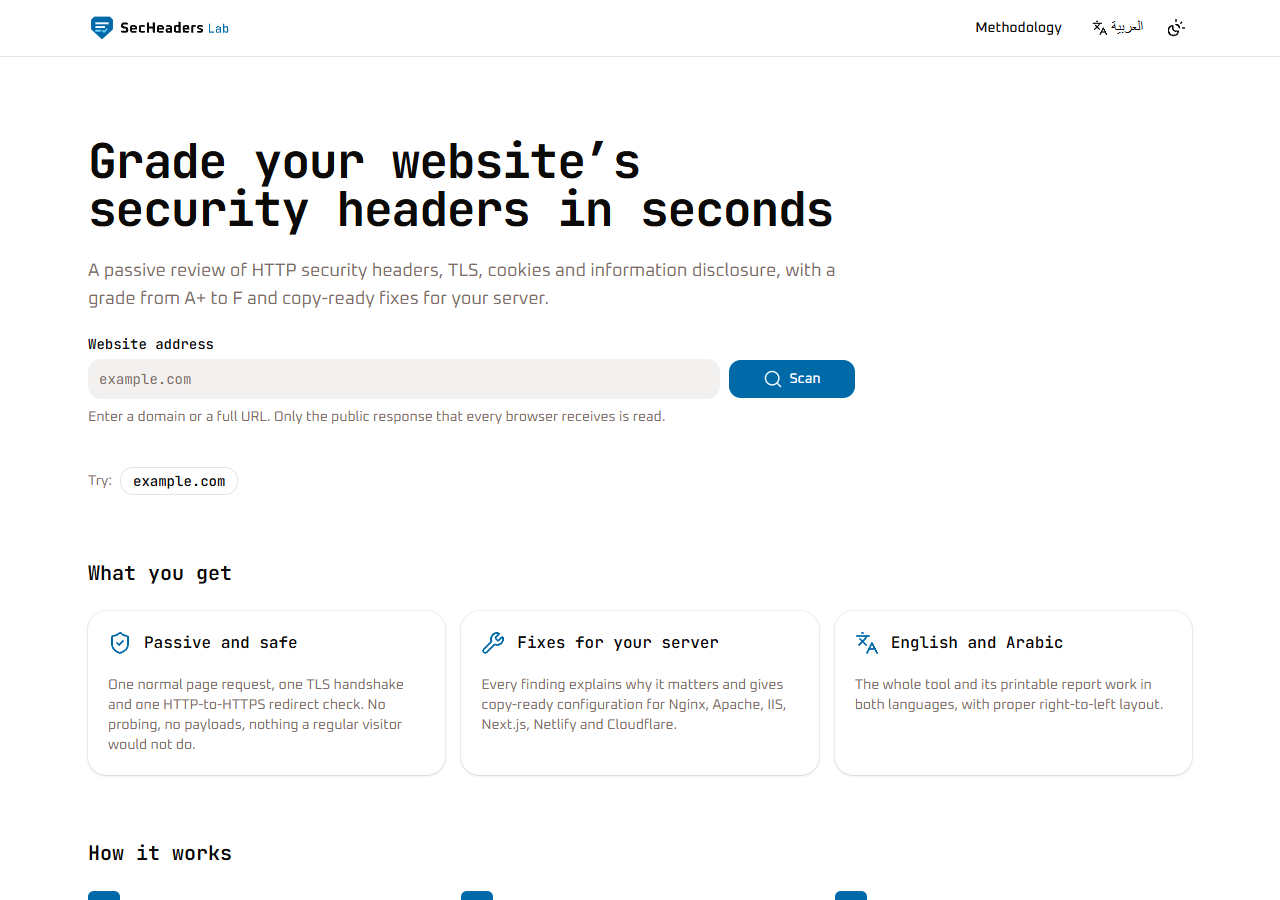
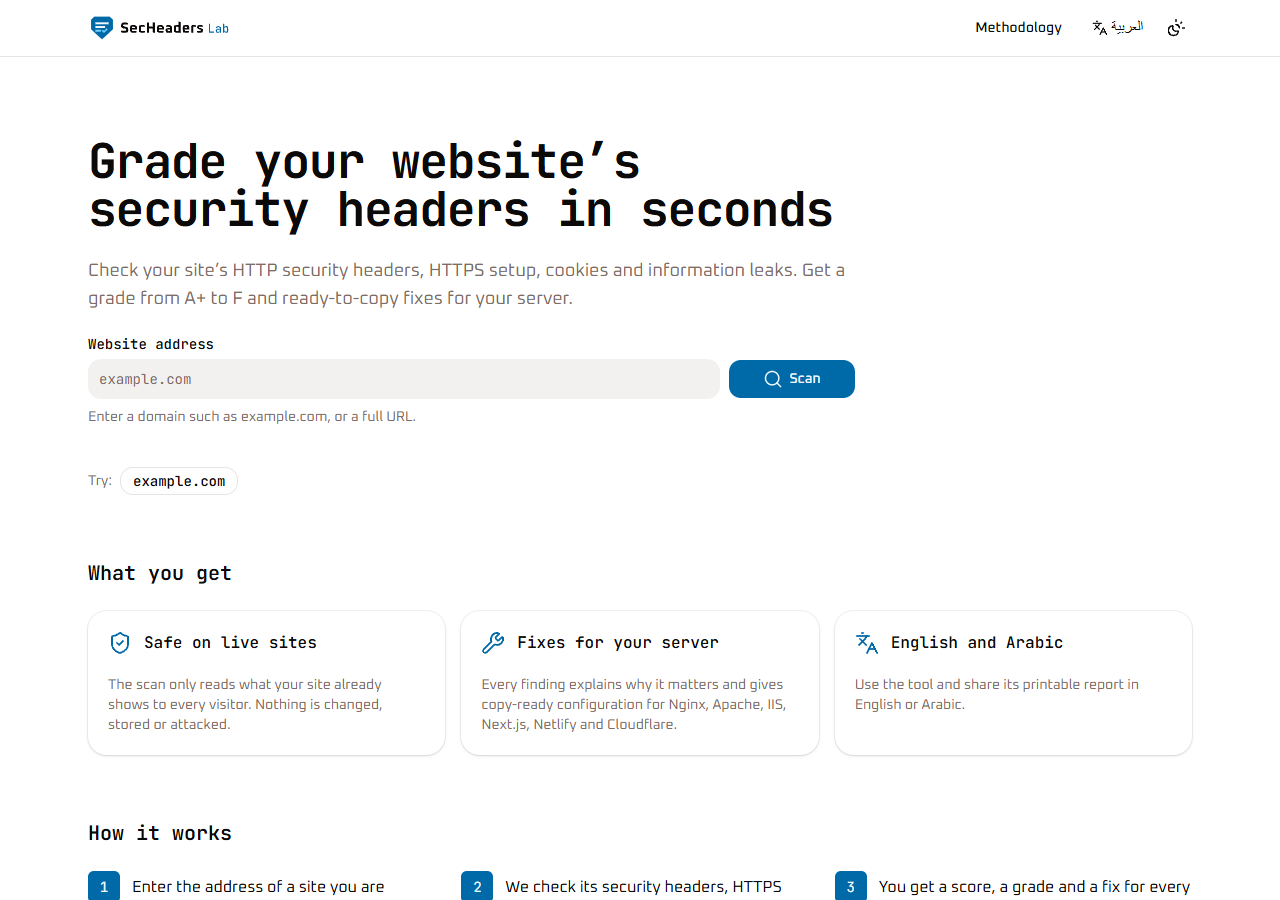
docs(content): user-centred copy without implementation details (ADR-038)
The home page, footer, loading states, errors and a few finding states
now describe outcomes for the visitor rather than mechanics (request
counts, payloads, DNS records, truncation sizes, "not evaluated").
Error messages say what to do next. The report header no longer shows
the scan duration and the methodology page no longer shows the scoring
specification version; both stay in the API result.

diff --git a/src/app/[locale]/about/page.tsx b/src/app/[locale]/about/page.tsx
@@ -14,7 +14,7 @@ import { alternatesFor } from '@/i18n/alternates'
 import { Link } from '@/i18n/navigation'
 import { resolveLocaleParam } from '@/i18n/locale-param'
 import { ruleMeta } from '@/lib/scanner/rules'
-import { CAP_MAX_GRADE, GRADE_THRESHOLDS, SCORING_VERSION } from '@/lib/scanner/scoring'
+import { CAP_MAX_GRADE, GRADE_THRESHOLDS } from '@/lib/scanner/scoring'
 import { CAP_IDS, type Category, RULE_IDS } from '@/lib/scanner/types'
 
 interface AboutPageProps {
@@ -158,9 +158,6 @@ export default async function AboutPage({ params }: AboutPageProps) {
             </li>
           ))}
         </ul>
-        <p className="text-sm text-muted-foreground">
-          {t('grading.version', { version: SCORING_VERSION })}
-        </p>
       </section>
 
       <section aria-labelledby="limits" className="flex flex-col gap-3">

diff --git a/src/components/results/ScanReport.tsx b/src/components/results/ScanReport.tsx
@@ -97,8 +97,7 @@ export const ScanReport = forwardRef<HTMLHeadingElement, ScanReportProps>(functi
             <CopyButton value={finalUrl} accessibleLabel={t('actions.copyUrl')} />
           </div>
           <p className="text-sm text-muted-foreground">
-            {t('summary.scannedAt', { date: formatDate(result.scannedAt, locale) })} ·{' '}
-            {t('summary.duration', { seconds: (result.durationMs / 1000).toFixed(1) })}
+            {t('summary.scannedAt', { date: formatDate(result.scannedAt, locale) })}
           </p>
         </div>
         <div className="flex flex-wrap gap-2 print:hidden">

diff --git a/tests/e2e/ui.spec.ts b/tests/e2e/ui.spec.ts
@@ -122,7 +122,7 @@ test.describe('error states (FR-13)', () => {
       }),
     )
     await page.goto('/en/scan?url=example.com')
-    await expect(page.getByRole('heading', { name: 'Target not allowed' })).toBeVisible()
+    await expect(page.getByRole('heading', { name: 'This site can’t be scanned' })).toBeVisible()
     await expect(page.getByLabel('Website address')).toHaveValue('example.com')
   })
 

diff --git a/docs/DECISIONS.md b/docs/DECISIONS.md
@@ -228,3 +228,9 @@ Format per entry: **ADR-NNN — Title** · Date · Status (Accepted / Superseded
 **Context:** The user asked for dedicated Privacy, Terms and Cookie pages, a professional cookie notice on first visit, and removal of the optional Arabic subtitle beside the logo (`08` §8 allowed but did not require it).
 **Decision:** `/privacy`, `/terms` and `/cookies` in both locales share one layout; their copy is a validated list of sections in `messages/*.json` (`src/lib/legal.ts`). The cookie table takes cookie and storage names from the code. The notice is **informational, not a consent wall**: the site sets no tracking cookies, so there is nothing to opt into. It is non-modal, keyboard-accessible, hidden in print, and its dismissal is stored in `localStorage` (`secheaders-cookie-notice`), not in a cookie, so NFR-04 (one optional cookie) still holds and the server never sees it. If storage is blocked, the dismissal holds for the visit. The notice renders only on the client, so the server HTML is unchanged. The `/about` privacy and terms sections stay short and link to the full pages. The footer gains the legal links and the GitHub link (T-17).
 **Consequences:** Copy changes require updating `LEGAL_UPDATED`. Playwright starts with the notice dismissed except in `tests/e2e/legal.spec.ts`. The legal text is written for this project's actual behaviour; it is not legal advice.
+
+### ADR-038 — User-centred copy: implementation details removed from the interface
+2026-11-07 · Accepted (user request; deviation from `06` §1, which listed the scan duration in the report header)
+**Context:** The user asked to remove text that does not help visitors in production, citing phrases such as "no probing, no payloads" and "proper right-to-left layout".
+**Decision:** Home, footer, loading states, error messages and a few finding states now describe outcomes for the visitor instead of mechanics (request counts, payloads, DNS records, 2 KB truncation, port numbers, "not evaluated"). Error messages say what to do next. The scan duration is no longer shown in the report header, and the scoring-specification version is no longer shown on the methodology page (both remain in the API result). Technical detail stays where readers look for it: the methodology page and the Privacy Policy.
+**Consequences:** No behaviour or scoring change. Tests that asserted old wording were updated.

diff --git a/PROGRESS.md b/PROGRESS.md
@@ -61,6 +61,8 @@ Removed: `next-themes` and the generated `theme-provider.tsx` (not approved, `08
 
 ## Log
 
+- 2026-11-07 — User-centred copy pass (user request, ADR-038): 29 strings per language rewritten so the interface talks about outcomes, not mechanics (home features and steps, form hint, footer, loading steps, raw-headers note, TLS unavailable, every error description, three "not evaluated" states, Server-header note); scan duration removed from the report header and the scoring-version line from the methodology page.
+
 - 2026-11-07 — Content audit (user request): independent bilingual copy review of every string in `messages/en.json` and `messages/ar.json`; 56 edits reviewed and applied (3 language errors, 27 accuracy, 12 consistency, 14 style). Main fixes: privacy copy no longer claims addresses are not stored (host names are logged; full addresses and results are not), the logged-fields list matches SC-37, the scan description includes the HTTP-to-HTTPS check, "first page" replaced by "the address you enter", HSTS/CSP claims no longer overstated, Arabic agreement and wording errors, one term per concept (e.g. «الشيفرة», «عمليات الفحص», «اسم المضيف»), cookie notice heading made neutral. Not changed (noted): list parameters such as duplicated header names are joined with a Latin comma in Arabic sentences. README screenshots re-captured (no subtitle). Fixed a timing-dependent axe check (contrast measured during the notice fade-in). 75 e2e ✅ twice; 1280 unit ✅.
 
 - 2026-11-07 — User request during Phase 6 (ADR-037): Arabic header subtitle removed; Privacy, Terms and Cookie pages (EN/AR) with validated section copy, cookie table from code, contact and related links, sitemap and canonical entries; first-visit cookie notice (informational, non-modal, `localStorage` dismissal, storage-blocked fallback); footer legal links + GitHub link. Tests: 1280 unit ✅ (99.8% statements); 75 e2e ✅ incl. legal pages, notice flow, keyboard, blocked storage, axe with the notice visible (EN/AR × light/dark) and axe on the new pages.
